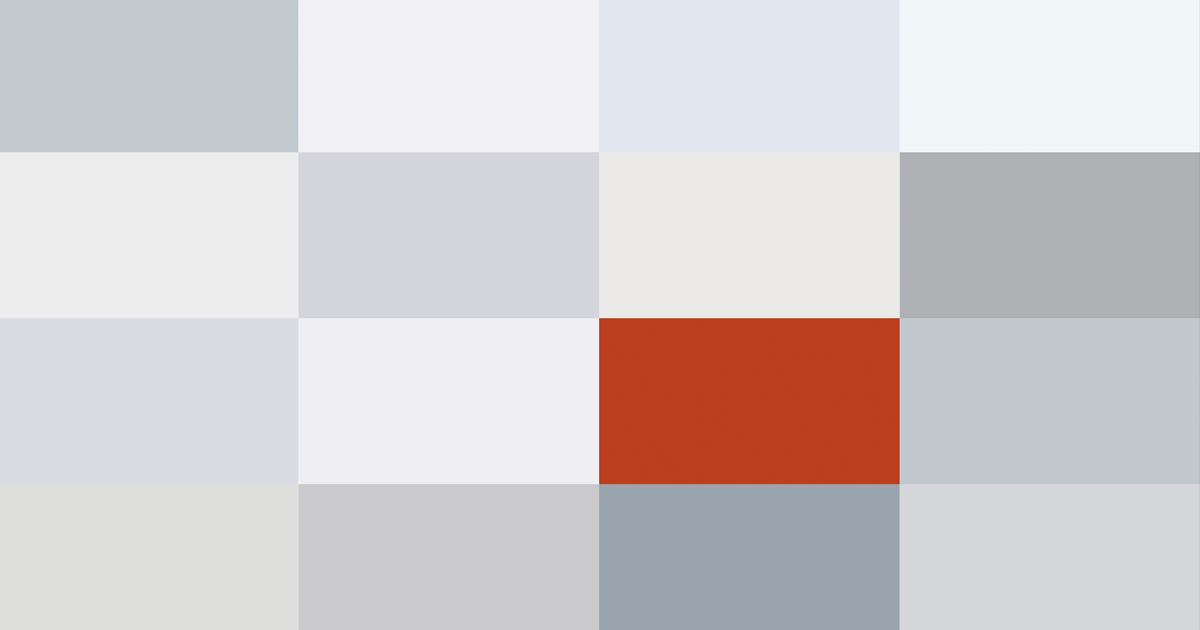
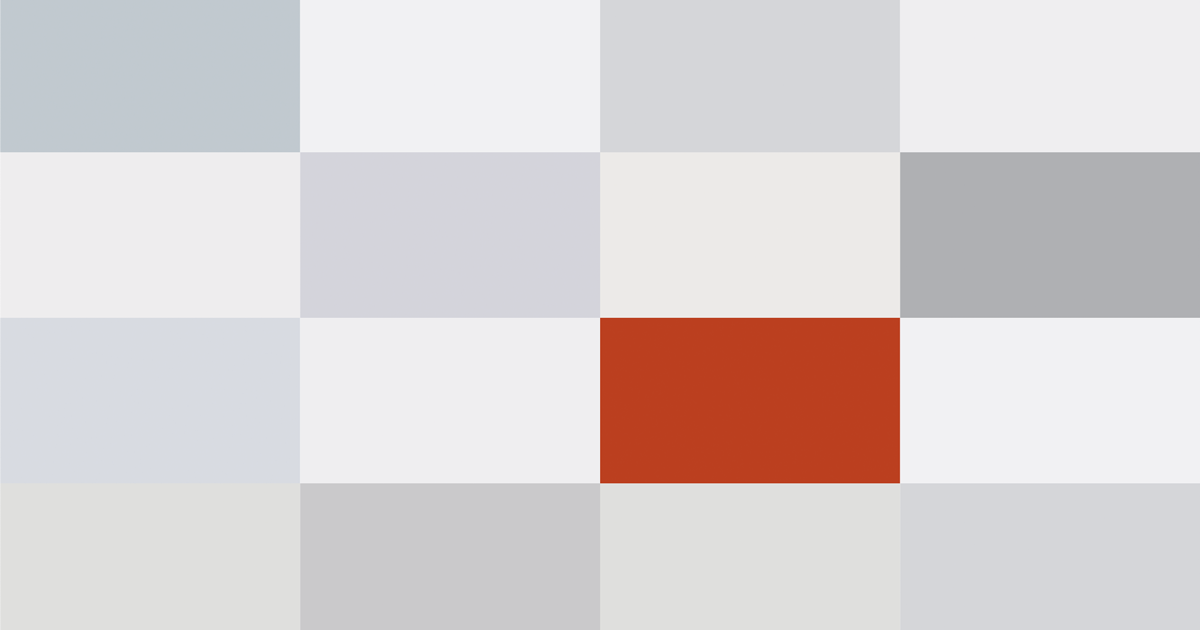
Change Colors

Changed region(s): [[0.4933, 0.4825, 1.0, 1.0]]

diff --git a/docs/assets/css/styles.css b/docs/assets/css/styles.css
@@ -2,4 +2,4 @@
  * ress.css • v1.2.2
  * MIT License
  * github.com/filipelinhares/ress
- */html{box-sizing:border-box;overflow-y:scroll;-webkit-text-size-adjust:100%}*,:before,:after{background-repeat:no-repeat;box-sizing:inherit}:before,:after{text-decoration:inherit;vertical-align:inherit}*{padding:0;margin:0}audio:not([controls]){display:none;height:0}hr{overflow:visible}article,aside,details,figcaption,figure,footer,header,main,menu,nav,section,summary{display:block}summary{display:list-item}small{font-size:80%}[hidden],template{display:none}abbr[title]{border-bottom:1px dotted;text-decoration:none}a{background-color:transparent;-webkit-text-decoration-skip:objects}a:active,a:hover{outline-width:0}code,kbd,pre,samp{font-family:monospace,monospace}b,strong{font-weight:bolder}dfn{font-style:italic}mark{background-color:#ff0;color:#000}sub,sup{font-size:75%;line-height:0;position:relative;vertical-align:baseline}sub{bottom:-.25em}sup{top:-.5em}input{border-radius:0}button,[type=button],[type=reset],[type=submit],[role=button]{cursor:pointer}[disabled]{cursor:default}[type=number]{width:auto}[type=search]{-webkit-appearance:textfield}[type=search]::-webkit-search-cancel-button,[type=search]::-webkit-search-decoration{-webkit-appearance:none}textarea{overflow:auto;resize:vertical}button,input,optgroup,select,textarea{font:inherit}optgroup{font-weight:700}button{overflow:visible}button::-moz-focus-inner,[type=button]::-moz-focus-inner,[type=reset]::-moz-focus-inner,[type=submit]::-moz-focus-inner{border-style:0;padding:0}button:-moz-focusring,[type=button]::-moz-focus-inner,[type=reset]::-moz-focus-inner,[type=submit]::-moz-focus-inner{outline:1px dotted ButtonText}button,html [type=button],[type=reset],[type=submit]{-webkit-appearance:button}button,select{text-transform:none}button,input,select,textarea{background-color:transparent;border-style:none;color:inherit}select{-moz-appearance:none;-webkit-appearance:none}select::-ms-expand{display:none}select::-ms-value{color:currentColor}legend{border:0;color:inherit;display:table;max-width:100%;white-space:normal}::-webkit-file-upload-button{-webkit-appearance:button;font:inherit}[type=search]{-webkit-appearance:textfield;outline-offset:-2px}img{border-style:none}progress{vertical-align:baseline}svg:not(:root){overflow:hidden}audio,canvas,progress,video{display:inline-block}@media screen{[hidden~=screen]{display:inherit}[hidden~=screen]:not(:active):not(:focus):not(:target){position:absolute!important;clip:rect(0 0 0 0)!important}}[aria-busy=true]{cursor:progress}[aria-controls]{cursor:pointer}[aria-disabled]{cursor:default}::-moz-selection{background-color:#b3d4fc;color:#000;text-shadow:none}::selection{background-color:#b3d4fc;color:#000;text-shadow:none}ul{list-style-type:none}a{text-decoration:none}html{font-size:62.5%;-webkit-font-smoothing:antialiased;-moz-osx-font-smoothing:grayscale}body{-webkit-text-size-adjust:100%;font-family:-apple-system,BlinkMacSystemFont,Helvetica Neue,Yu Gothic,YuGothic,Verdana,Meiryo,"M+ 1p",sans-serif;font-size:14px;font-size:1.4rem;color:#000}html,body{height:100%}.people{width:100%;height:100%;position:relative;overflow:hidden}.people__dance{position:absolute;width:50%;height:100%;-webkit-animation-duration:20s;animation-duration:20s;-webkit-animation-timing-function:ease-in-out;animation-timing-function:ease-in-out;-webkit-animation-iteration-count:infinite;animation-iteration-count:infinite;-webkit-animation-delay:2s;animation-delay:2s;-webkit-clip-path:polygon(25% 25%,75% 25%,75% 50%,25% 50%);clip-path:polygon(25% 25%,75% 25%,75% 50%,25% 50%)}.people__dance.-dance01{top:-25%;left:-12.5%;-webkit-animation-name:dance01;animation-name:dance01;background:#c1c9d0}.people__dance.-dance02{top:-25%;left:12.5%;-webkit-animation-name:dance02;animation-name:dance02;background:#f1f1f3}.people__dance.-dance03{top:-25%;left:37.5%;-webkit-animation-name:dance03;animation-name:dance03;background:#e1e7ee}.people__dance.-dance04{top:-25%;left:62.5%;-webkit-animation-name:dance04;animation-name:dance04;background:#f1f6f9}.people__dance.-dance05{top:0;left:-12.5%;-webkit-animation-name:dance05;animation-name:dance05;background:#eeedee}.people__dance.-dance06{top:0;left:12.5%;-webkit-animation-name:dance06;animation-name:dance06;background:#d4d4db}.people__dance.-dance07{top:0;left:37.5%;-webkit-animation-name:dance07;animation-name:dance07;background:#eceae8}.people__dance.-dance08{top:0;left:62.5%;-webkit-animation-name:dance08;animation-name:dance08;background:#afb0b3}.people__dance.-dance09{top:25%;left:-12.5%;-webkit-animation-name:dance09;animation-name:dance09;background:#d8dbe1}.people__dance.-dance10{top:25%;left:12.5%;-webkit-animation-name:dance10;animation-name:dance10;background:#efeef0}.people__dance.-you{top:25%;left:37.5%;-webkit-animation-name:you;animation-name:you;background:#bb3f20}.people__dance.-dance12{top:25%;left:62.5%;-webkit-animation-name:dance12;animation-name:dance12;background:#c0c8cf}.people__dance.-dance13{top:50%;left:-12.5%;-webkit-animation-name:dance13;animation-name:dance13;background:#dfdfdd}.people__dance.-dance14{top:50%;left:12.5%;-webkit-animation-name:dance14;animation-name:dance14;background:#cac9cb}.people__dance.-dance15{top:50%;left:37.5%;-webkit-animation-name:dance15;animation-name:dance15;background:#9aa4af}.people__dance.-dance16{top:50%;left:62.5%;-webkit-animation-name:dance16;animation-name:dance16;background:#d5d6d9}@-webkit-keyframes dance01{25%{-webkit-clip-path:polygon(25% 25%,73% 25%,77% 52%,25% 48%);clip-path:polygon(25% 25%,73% 25%,77% 52%,25% 48%)}50%{-webkit-clip-path:polygon(25% 25%,77% 25%,73% 48%,25% 52%);clip-path:polygon(25% 25%,77% 25%,73% 48%,25% 52%)}75%{-webkit-clip-path:polygon(25% 25%,73% 25%,73% 48%,25% 50%);clip-path:polygon(25% 25%,73% 25%,73% 48%,25% 50%)}}@keyframes dance01{25%{-webkit-clip-path:polygon(25% 25%,73% 25%,77% 52%,25% 48%);clip-path:polygon(25% 25%,73% 25%,77% 52%,25% 48%)}50%{-webkit-clip-path:polygon(25% 25%,77% 25%,73% 48%,25% 52%);clip-path:polygon(25% 25%,77% 25%,73% 48%,25% 52%)}75%{-webkit-clip-path:polygon(25% 25%,73% 25%,73% 48%,25% 50%);clip-path:polygon(25% 25%,73% 25%,73% 48%,25% 50%)}}@-webkit-keyframes dance02{25%{-webkit-clip-path:polygon(23% 25%,77% 25%,77% 48%,27% 52%);clip-path:polygon(23% 25%,77% 25%,77% 48%,27% 52%)}50%{-webkit-clip-path:polygon(27% 25%,73% 25%,73% 52%,23% 48%);clip-path:polygon(27% 25%,73% 25%,73% 52%,23% 48%)}75%{-webkit-clip-path:polygon(23% 25%,77% 25%,77% 48%,23% 48%);clip-path:polygon(23% 25%,77% 25%,77% 48%,23% 48%)}}@keyframes dance02{25%{-webkit-clip-path:polygon(23% 25%,77% 25%,77% 48%,27% 52%);clip-path:polygon(23% 25%,77% 25%,77% 48%,27% 52%)}50%{-webkit-clip-path:polygon(27% 25%,73% 25%,73% 52%,23% 48%);clip-path:polygon(27% 25%,73% 25%,73% 52%,23% 48%)}75%{-webkit-clip-path:polygon(23% 25%,77% 25%,77% 48%,23% 48%);clip-path:polygon(23% 25%,77% 25%,77% 48%,23% 48%)}}@-webkit-keyframes dance03{25%{-webkit-clip-path:polygon(27% 25%,77% 25%,73% 52%,27% 48%);clip-path:polygon(27% 25%,77% 25%,73% 52%,27% 48%)}50%{-webkit-clip-path:polygon(23% 25%,73% 25%,77% 48%,23% 52%);clip-path:polygon(23% 25%,73% 25%,77% 48%,23% 52%)}75%{-webkit-clip-path:polygon(23% 25%,77% 25%,77% 48%,27% 48%);clip-path:polygon(23% 25%,77% 25%,77% 48%,27% 48%)}}@keyframes dance03{25%{-webkit-clip-path:polygon(27% 25%,77% 25%,73% 52%,27% 48%);clip-path:polygon(27% 25%,77% 25%,73% 52%,27% 48%)}50%{-webkit-clip-path:polygon(23% 25%,73% 25%,77% 48%,23% 52%);clip-path:polygon(23% 25%,73% 25%,77% 48%,23% 52%)}75%{-webkit-clip-path:polygon(23% 25%,77% 25%,77% 48%,27% 48%);clip-path:polygon(23% 25%,77% 25%,77% 48%,27% 48%)}}@-webkit-keyframes dance04{25%{-webkit-clip-path:polygon(27% 25%,75% 25%,75% 48%,23% 52%);clip-path:polygon(27% 25%,75% 25%,75% 48%,23% 52%)}50%{-webkit-clip-path:polygon(23% 25%,75% 25%,75% 52%,27% 48%);clip-path:polygon(23% 25%,75% 25%,75% 52%,27% 48%)}75%{-webkit-clip-path:polygon(27% 25%,75% 25%,75% 50%,27% 50%);clip-path:polygon(27% 25%,75% 25%,75% 50%,27% 50%)}}@keyframes dance04{25%{-webkit-clip-path:polygon(27% 25%,75% 25%,75% 48%,23% 52%);clip-path:polygon(27% 25%,75% 25%,75% 48%,23% 52%)}50%{-webkit-clip-path:polygon(23% 25%,75% 25%,75% 52%,27% 48%);clip-path:polygon(23% 25%,75% 25%,75% 52%,27% 48%)}75%{-webkit-clip-path:polygon(27% 25%,75% 25%,75% 50%,27% 50%);clip-path:polygon(27% 25%,75% 25%,75% 50%,27% 50%)}}@-webkit-keyframes dance05{25%{-webkit-clip-path:polygon(25% 23%,77% 27%,73% 48%,25% 50%);clip-path:polygon(25% 23%,77% 27%,73% 48%,25% 50%)}50%{-webkit-clip-path:polygon(25% 27%,73% 23%,77% 52%,25% 50%);clip-path:polygon(25% 27%,73% 23%,77% 52%,25% 50%)}75%{-webkit-clip-path:polygon(25% 25%,73% 23%,73% 50%,25% 50%);clip-path:polygon(25% 25%,73% 23%,73% 50%,25% 50%)}}@keyframes dance05{25%{-webkit-clip-path:polygon(25% 23%,77% 27%,73% 48%,25% 50%);clip-path:polygon(25% 23%,77% 27%,73% 48%,25% 50%)}50%{-webkit-clip-path:polygon(25% 27%,73% 23%,77% 52%,25% 50%);clip-path:polygon(25% 27%,73% 23%,77% 52%,25% 50%)}75%{-webkit-clip-path:polygon(25% 25%,73% 23%,73% 50%,25% 50%);clip-path:polygon(25% 25%,73% 23%,73% 50%,25% 50%)}}@-webkit-keyframes dance06{25%{-webkit-clip-path:polygon(27% 27%,77% 23%,73% 50%,23% 48%);clip-path:polygon(27% 27%,77% 23%,73% 50%,23% 48%)}50%{-webkit-clip-path:polygon(23% 23%,73% 27%,77% 48%,27% 52%);clip-path:polygon(23% 23%,73% 27%,77% 48%,27% 52%)}75%{-webkit-clip-path:polygon(23% 23%,77% 23%,77% 50%,23% 50%);clip-path:polygon(23% 23%,77% 23%,77% 50%,23% 50%)}}@keyframes dance06{25%{-webkit-clip-path:polygon(27% 27%,77% 23%,73% 50%,23% 48%);clip-path:polygon(27% 27%,77% 23%,73% 50%,23% 48%)}50%{-webkit-clip-path:polygon(23% 23%,73% 27%,77% 48%,27% 52%);clip-path:polygon(23% 23%,73% 27%,77% 48%,27% 52%)}75%{-webkit-clip-path:polygon(23% 23%,77% 23%,77% 50%,23% 50%);clip-path:polygon(23% 23%,77% 23%,77% 50%,23% 50%)}}@-webkit-keyframes dance07{25%{-webkit-clip-path:polygon(27% 23%,73% 27%,77% 48%,23% 50%);clip-path:polygon(27% 23%,73% 27%,77% 48%,23% 50%)}50%{-webkit-clip-path:polygon(23% 27%,77% 23%,73% 50%,27% 48%);clip-path:polygon(23% 27%,77% 23%,73% 50%,27% 48%)}75%{-webkit-clip-path:polygon(27% 23%,77% 23%,75% 50%,27% 50%);clip-path:polygon(27% 23%,77% 23%,75% 50%,27% 50%)}}@keyframes dance07{25%{-webkit-clip-path:polygon(27% 23%,73% 27%,77% 48%,23% 50%);clip-path:polygon(27% 23%,73% 27%,77% 48%,23% 50%)}50%{-webkit-clip-path:polygon(23% 27%,77% 23%,73% 50%,27% 48%);clip-path:polygon(23% 27%,77% 23%,73% 50%,27% 48%)}75%{-webkit-clip-path:polygon(27% 23%,77% 23%,75% 50%,27% 50%);clip-path:polygon(27% 23%,77% 23%,75% 50%,27% 50%)}}@-webkit-keyframes dance08{25%{-webkit-clip-path:polygon(23% 27%,75% 23%,75% 50%,27% 48%);clip-path:polygon(23% 27%,75% 23%,75% 50%,27% 48%)}50%{-webkit-clip-path:polygon(27% 23%,75% 27%,75% 50%,23% 50%);clip-path:polygon(27% 23%,75% 27%,75% 50%,23% 50%)}75%{-webkit-clip-path:polygon(27% 23%,75% 25%,75% 50%,25% 50%);clip-path:polygon(27% 23%,75% 25%,75% 50%,25% 50%)}}@keyframes dance08{25%{-webkit-clip-path:polygon(23% 27%,75% 23%,75% 50%,27% 48%);clip-path:polygon(23% 27%,75% 23%,75% 50%,27% 48%)}50%{-webkit-clip-path:polygon(27% 23%,75% 27%,75% 50%,23% 50%);clip-path:polygon(27% 23%,75% 27%,75% 50%,23% 50%)}75%{-webkit-clip-path:polygon(27% 23%,75% 25%,75% 50%,25% 50%);clip-path:polygon(27% 23%,75% 25%,75% 50%,25% 50%)}}@-webkit-keyframes dance09{25%{-webkit-clip-path:polygon(25% 25%,73% 23%,77% 52%,25% 48%);clip-path:polygon(25% 25%,73% 23%,77% 52%,25% 48%)}50%{-webkit-clip-path:polygon(25% 25%,77% 25%,73% 48%,25% 52%);clip-path:polygon(25% 25%,77% 25%,73% 48%,25% 52%)}75%{-webkit-clip-path:polygon(25% 25%,73% 25%,73% 48%,25% 50%);clip-path:polygon(25% 25%,73% 25%,73% 48%,25% 50%)}}@keyframes dance09{25%{-webkit-clip-path:polygon(25% 25%,73% 23%,77% 52%,25% 48%);clip-path:polygon(25% 25%,73% 23%,77% 52%,25% 48%)}50%{-webkit-clip-path:polygon(25% 25%,77% 25%,73% 48%,25% 52%);clip-path:polygon(25% 25%,77% 25%,73% 48%,25% 52%)}75%{-webkit-clip-path:polygon(25% 25%,73% 25%,73% 48%,25% 50%);clip-path:polygon(25% 25%,73% 25%,73% 48%,25% 50%)}}@-webkit-keyframes dance10{25%{-webkit-clip-path:polygon(23% 23%,73% 25%,77% 48%,27% 52%);clip-path:polygon(23% 23%,73% 25%,77% 48%,27% 52%)}50%{-webkit-clip-path:polygon(27% 25%,77% 23%,73% 52%,23% 48%);clip-path:polygon(27% 25%,77% 23%,73% 52%,23% 48%)}75%{-webkit-clip-path:polygon(23% 25%,77% 25%,77% 48%,23% 48%);clip-path:polygon(23% 25%,77% 25%,77% 48%,23% 48%)}}@keyframes dance10{25%{-webkit-clip-path:polygon(23% 23%,73% 25%,77% 48%,27% 52%);clip-path:polygon(23% 23%,73% 25%,77% 48%,27% 52%)}50%{-webkit-clip-path:polygon(27% 25%,77% 23%,73% 52%,23% 48%);clip-path:polygon(27% 25%,77% 23%,73% 52%,23% 48%)}75%{-webkit-clip-path:polygon(23% 25%,77% 25%,77% 48%,23% 48%);clip-path:polygon(23% 25%,77% 25%,77% 48%,23% 48%)}}@-webkit-keyframes you{25%{-webkit-clip-path:polygon(23% 25%,77% 23%,73% 52%,27% 48%);clip-path:polygon(23% 25%,77% 23%,73% 52%,27% 48%)}50%{-webkit-clip-path:polygon(27% 23%,73% 25%,77% 48%,23% 52%);clip-path:polygon(27% 23%,73% 25%,77% 48%,23% 52%)}75%{-webkit-clip-path:polygon(27% 25%,75% 25%,77% 50%,27% 48%);clip-path:polygon(27% 25%,75% 25%,77% 50%,27% 48%)}}@keyframes you{25%{-webkit-clip-path:polygon(23% 25%,77% 23%,73% 52%,27% 48%);clip-path:polygon(23% 25%,77% 23%,73% 52%,27% 48%)}50%{-webkit-clip-path:polygon(27% 23%,73% 25%,77% 48%,23% 52%);clip-path:polygon(27% 23%,73% 25%,77% 48%,23% 52%)}75%{-webkit-clip-path:polygon(27% 25%,75% 25%,77% 50%,27% 48%);clip-path:polygon(27% 25%,75% 25%,77% 50%,27% 48%)}}@-webkit-keyframes dance12{25%{-webkit-clip-path:polygon(27% 23%,75% 25%,75% 48%,23% 52%);clip-path:polygon(27% 23%,75% 25%,75% 48%,23% 52%)}50%{-webkit-clip-path:polygon(23% 25%,75% 25%,75% 52%,27% 48%);clip-path:polygon(23% 25%,75% 25%,75% 52%,27% 48%)}75%{-webkit-clip-path:polygon(25% 25%,75% 25%,75% 50%,27% 50%);clip-path:polygon(25% 25%,75% 25%,75% 50%,27% 50%)}}@keyframes dance12{25%{-webkit-clip-path:polygon(27% 23%,75% 25%,75% 48%,23% 52%);clip-path:polygon(27% 23%,75% 25%,75% 48%,23% 52%)}50%{-webkit-clip-path:polygon(23% 25%,75% 25%,75% 52%,27% 48%);clip-path:polygon(23% 25%,75% 25%,75% 52%,27% 48%)}75%{-webkit-clip-path:polygon(25% 25%,75% 25%,75% 50%,27% 50%);clip-path:polygon(25% 25%,75% 25%,75% 50%,27% 50%)}}@-webkit-keyframes dance13{25%{-webkit-clip-path:polygon(25% 23%,77% 27%,73% 50%,25% 50%);clip-path:polygon(25% 23%,77% 27%,73% 50%,25% 50%)}50%{-webkit-clip-path:polygon(25% 27%,73% 23%,77% 52%,25% 50%);clip-path:polygon(25% 27%,73% 23%,77% 52%,25% 50%)}75%{-webkit-clip-path:polygon(25% 25%,73% 23%,73% 50%,25% 50%);clip-path:polygon(25% 25%,73% 23%,73% 50%,25% 50%)}}@keyframes dance13{25%{-webkit-clip-path:polygon(25% 23%,77% 27%,73% 50%,25% 50%);clip-path:polygon(25% 23%,77% 27%,73% 50%,25% 50%)}50%{-webkit-clip-path:polygon(25% 27%,73% 23%,77% 52%,25% 50%);clip-path:polygon(25% 27%,73% 23%,77% 52%,25% 50%)}75%{-webkit-clip-path:polygon(25% 25%,73% 23%,73% 50%,25% 50%);clip-path:polygon(25% 25%,73% 23%,73% 50%,25% 50%)}}@-webkit-keyframes dance14{25%{-webkit-clip-path:polygon(27% 27%,77% 23%,73% 50%,23% 50%);clip-path:polygon(27% 27%,77% 23%,73% 50%,23% 50%)}50%{-webkit-clip-path:polygon(23% 23%,73% 27%,77% 50%,27% 52%);clip-path:polygon(23% 23%,73% 27%,77% 50%,27% 52%)}75%{-webkit-clip-path:polygon(23% 23%,77% 23%,77% 50%,23% 50%);clip-path:polygon(23% 23%,77% 23%,77% 50%,23% 50%)}}@keyframes dance14{25%{-webkit-clip-path:polygon(27% 27%,77% 23%,73% 50%,23% 50%);clip-path:polygon(27% 27%,77% 23%,73% 50%,23% 50%)}50%{-webkit-clip-path:polygon(23% 23%,73% 27%,77% 50%,27% 52%);clip-path:polygon(23% 23%,73% 27%,77% 50%,27% 52%)}75%{-webkit-clip-path:polygon(23% 23%,77% 23%,77% 50%,23% 50%);clip-path:polygon(23% 23%,77% 23%,77% 50%,23% 50%)}}@-webkit-keyframes dance15{25%{-webkit-clip-path:polygon(27% 23%,73% 27%,77% 50%,23% 50%);clip-path:polygon(27% 23%,73% 27%,77% 50%,23% 50%)}50%{-webkit-clip-path:polygon(23% 27%,77% 23%,73% 50%,27% 50%);clip-path:polygon(23% 27%,77% 23%,73% 50%,27% 50%)}75%{-webkit-clip-path:polygon(27% 23%,77% 23%,75% 50%,27% 50%);clip-path:polygon(27% 23%,77% 23%,75% 50%,27% 50%)}}@keyframes dance15{25%{-webkit-clip-path:polygon(27% 23%,73% 27%,77% 50%,23% 50%);clip-path:polygon(27% 23%,73% 27%,77% 50%,23% 50%)}50%{-webkit-clip-path:polygon(23% 27%,77% 23%,73% 50%,27% 50%);clip-path:polygon(23% 27%,77% 23%,73% 50%,27% 50%)}75%{-webkit-clip-path:polygon(27% 23%,77% 23%,75% 50%,27% 50%);clip-path:polygon(27% 23%,77% 23%,75% 50%,27% 50%)}}@-webkit-keyframes dance16{25%{-webkit-clip-path:polygon(23% 27%,75% 23%,75% 50%,27% 50%);clip-path:polygon(23% 27%,75% 23%,75% 50%,27% 50%)}50%{-webkit-clip-path:polygon(27% 23%,75% 27%,75% 50%,23% 50%);clip-path:polygon(27% 23%,75% 27%,75% 50%,23% 50%)}75%{-webkit-clip-path:polygon(27% 23%,75% 25%,75% 50%,25% 50%);clip-path:polygon(27% 23%,75% 25%,75% 50%,25% 50%)}}@keyframes dance16{25%{-webkit-clip-path:polygon(23% 27%,75% 23%,75% 50%,27% 50%);clip-path:polygon(23% 27%,75% 23%,75% 50%,27% 50%)}50%{-webkit-clip-path:polygon(27% 23%,75% 27%,75% 50%,23% 50%);clip-path:polygon(27% 23%,75% 27%,75% 50%,23% 50%)}75%{-webkit-clip-path:polygon(27% 23%,75% 25%,75% 50%,25% 50%);clip-path:polygon(27% 23%,75% 25%,75% 50%,25% 50%)}}
+ */html{box-sizing:border-box;overflow-y:scroll;-webkit-text-size-adjust:100%}*,:before,:after{background-repeat:no-repeat;box-sizing:inherit}:before,:after{text-decoration:inherit;vertical-align:inherit}*{padding:0;margin:0}audio:not([controls]){display:none;height:0}hr{overflow:visible}article,aside,details,figcaption,figure,footer,header,main,menu,nav,section,summary{display:block}summary{display:list-item}small{font-size:80%}[hidden],template{display:none}abbr[title]{border-bottom:1px dotted;text-decoration:none}a{background-color:transparent;-webkit-text-decoration-skip:objects}a:active,a:hover{outline-width:0}code,kbd,pre,samp{font-family:monospace,monospace}b,strong{font-weight:bolder}dfn{font-style:italic}mark{background-color:#ff0;color:#000}sub,sup{font-size:75%;line-height:0;position:relative;vertical-align:baseline}sub{bottom:-.25em}sup{top:-.5em}input{border-radius:0}button,[type=button],[type=reset],[type=submit],[role=button]{cursor:pointer}[disabled]{cursor:default}[type=number]{width:auto}[type=search]{-webkit-appearance:textfield}[type=search]::-webkit-search-cancel-button,[type=search]::-webkit-search-decoration{-webkit-appearance:none}textarea{overflow:auto;resize:vertical}button,input,optgroup,select,textarea{font:inherit}optgroup{font-weight:700}button{overflow:visible}button::-moz-focus-inner,[type=button]::-moz-focus-inner,[type=reset]::-moz-focus-inner,[type=submit]::-moz-focus-inner{border-style:0;padding:0}button:-moz-focusring,[type=button]::-moz-focus-inner,[type=reset]::-moz-focus-inner,[type=submit]::-moz-focus-inner{outline:1px dotted ButtonText}button,html [type=button],[type=reset],[type=submit]{-webkit-appearance:button}button,select{text-transform:none}button,input,select,textarea{background-color:transparent;border-style:none;color:inherit}select{-moz-appearance:none;-webkit-appearance:none}select::-ms-expand{display:none}select::-ms-value{color:currentColor}legend{border:0;color:inherit;display:table;max-width:100%;white-space:normal}::-webkit-file-upload-button{-webkit-appearance:button;font:inherit}[type=search]{-webkit-appearance:textfield;outline-offset:-2px}img{border-style:none}progress{vertical-align:baseline}svg:not(:root){overflow:hidden}audio,canvas,progress,video{display:inline-block}@media screen{[hidden~=screen]{display:inherit}[hidden~=screen]:not(:active):not(:focus):not(:target){position:absolute!important;clip:rect(0 0 0 0)!important}}[aria-busy=true]{cursor:progress}[aria-controls]{cursor:pointer}[aria-disabled]{cursor:default}::-moz-selection{background-color:#b3d4fc;color:#000;text-shadow:none}::selection{background-color:#b3d4fc;color:#000;text-shadow:none}ul{list-style-type:none}a{text-decoration:none}html{font-size:62.5%;-webkit-font-smoothing:antialiased;-moz-osx-font-smoothing:grayscale}body{-webkit-text-size-adjust:100%;font-family:-apple-system,BlinkMacSystemFont,Helvetica Neue,Yu Gothic,YuGothic,Verdana,Meiryo,"M+ 1p",sans-serif;font-size:14px;font-size:1.4rem;color:#000}html,body{height:100%}.people{width:100%;height:100%;position:relative;overflow:hidden}.people__dance{position:absolute;width:50%;height:100%;-webkit-animation-duration:20s;animation-duration:20s;-webkit-animation-timing-function:ease-in-out;animation-timing-function:ease-in-out;-webkit-animation-iteration-count:infinite;animation-iteration-count:infinite;-webkit-animation-delay:2s;animation-delay:2s;-webkit-clip-path:polygon(25% 25%,75% 25%,75% 50%,25% 50%);clip-path:polygon(25% 25%,75% 25%,75% 50%,25% 50%)}.people__dance.-dance01{top:-25%;left:-12.5%;-webkit-animation-name:dance01;animation-name:dance01;background:#c1c9d0}.people__dance.-dance02{top:-25%;left:12.5%;-webkit-animation-name:dance02;animation-name:dance02;background:#f1f1f3}.people__dance.-dance03{top:-25%;left:37.5%;-webkit-animation-name:dance03;animation-name:dance03;background:#d5d6d9}.people__dance.-dance04{top:-25%;left:62.5%;-webkit-animation-name:dance04;animation-name:dance04;background:#efeef0}.people__dance.-dance05{top:0;left:-12.5%;-webkit-animation-name:dance05;animation-name:dance05;background:#eeedee}.people__dance.-dance06{top:0;left:12.5%;-webkit-animation-name:dance06;animation-name:dance06;background:#d4d4db}.people__dance.-dance07{top:0;left:37.5%;-webkit-animation-name:dance07;animation-name:dance07;background:#eceae8}.people__dance.-dance08{top:0;left:62.5%;-webkit-animation-name:dance08;animation-name:dance08;background:#afb0b3}.people__dance.-dance09{top:25%;left:-12.5%;-webkit-animation-name:dance09;animation-name:dance09;background:#d8dbe1}.people__dance.-dance10{top:25%;left:12.5%;-webkit-animation-name:dance10;animation-name:dance10;background:#efeef0}.people__dance.-you{top:25%;left:37.5%;-webkit-animation-name:you;animation-name:you;background:#bb3f20}.people__dance.-dance12{top:25%;left:62.5%;-webkit-animation-name:dance12;animation-name:dance12;background:#f1f1f3}.people__dance.-dance13{top:50%;left:-12.5%;-webkit-animation-name:dance13;animation-name:dance13;background:#dfdfdd}.people__dance.-dance14{top:50%;left:12.5%;-webkit-animation-name:dance14;animation-name:dance14;background:#cac9cb}.people__dance.-dance15{top:50%;left:37.5%;-webkit-animation-name:dance15;animation-name:dance15;background:#dfdfdd}.people__dance.-dance16{top:50%;left:62.5%;-webkit-animation-name:dance16;animation-name:dance16;background:#d5d6d9}@-webkit-keyframes dance01{25%{-webkit-clip-path:polygon(25% 25%,73% 25%,77% 52%,25% 48%);clip-path:polygon(25% 25%,73% 25%,77% 52%,25% 48%)}50%{-webkit-clip-path:polygon(25% 25%,77% 25%,73% 48%,25% 52%);clip-path:polygon(25% 25%,77% 25%,73% 48%,25% 52%)}75%{-webkit-clip-path:polygon(25% 25%,73% 25%,73% 48%,25% 50%);clip-path:polygon(25% 25%,73% 25%,73% 48%,25% 50%)}}@keyframes dance01{25%{-webkit-clip-path:polygon(25% 25%,73% 25%,77% 52%,25% 48%);clip-path:polygon(25% 25%,73% 25%,77% 52%,25% 48%)}50%{-webkit-clip-path:polygon(25% 25%,77% 25%,73% 48%,25% 52%);clip-path:polygon(25% 25%,77% 25%,73% 48%,25% 52%)}75%{-webkit-clip-path:polygon(25% 25%,73% 25%,73% 48%,25% 50%);clip-path:polygon(25% 25%,73% 25%,73% 48%,25% 50%)}}@-webkit-keyframes dance02{25%{-webkit-clip-path:polygon(23% 25%,77% 25%,77% 48%,27% 52%);clip-path:polygon(23% 25%,77% 25%,77% 48%,27% 52%)}50%{-webkit-clip-path:polygon(27% 25%,73% 25%,73% 52%,23% 48%);clip-path:polygon(27% 25%,73% 25%,73% 52%,23% 48%)}75%{-webkit-clip-path:polygon(23% 25%,77% 25%,77% 48%,23% 48%);clip-path:polygon(23% 25%,77% 25%,77% 48%,23% 48%)}}@keyframes dance02{25%{-webkit-clip-path:polygon(23% 25%,77% 25%,77% 48%,27% 52%);clip-path:polygon(23% 25%,77% 25%,77% 48%,27% 52%)}50%{-webkit-clip-path:polygon(27% 25%,73% 25%,73% 52%,23% 48%);clip-path:polygon(27% 25%,73% 25%,73% 52%,23% 48%)}75%{-webkit-clip-path:polygon(23% 25%,77% 25%,77% 48%,23% 48%);clip-path:polygon(23% 25%,77% 25%,77% 48%,23% 48%)}}@-webkit-keyframes dance03{25%{-webkit-clip-path:polygon(27% 25%,77% 25%,73% 52%,27% 48%);clip-path:polygon(27% 25%,77% 25%,73% 52%,27% 48%)}50%{-webkit-clip-path:polygon(23% 25%,73% 25%,77% 48%,23% 52%);clip-path:polygon(23% 25%,73% 25%,77% 48%,23% 52%)}75%{-webkit-clip-path:polygon(23% 25%,77% 25%,77% 48%,27% 48%);clip-path:polygon(23% 25%,77% 25%,77% 48%,27% 48%)}}@keyframes dance03{25%{-webkit-clip-path:polygon(27% 25%,77% 25%,73% 52%,27% 48%);clip-path:polygon(27% 25%,77% 25%,73% 52%,27% 48%)}50%{-webkit-clip-path:polygon(23% 25%,73% 25%,77% 48%,23% 52%);clip-path:polygon(23% 25%,73% 25%,77% 48%,23% 52%)}75%{-webkit-clip-path:polygon(23% 25%,77% 25%,77% 48%,27% 48%);clip-path:polygon(23% 25%,77% 25%,77% 48%,27% 48%)}}@-webkit-keyframes dance04{25%{-webkit-clip-path:polygon(27% 25%,75% 25%,75% 48%,23% 52%);clip-path:polygon(27% 25%,75% 25%,75% 48%,23% 52%)}50%{-webkit-clip-path:polygon(23% 25%,75% 25%,75% 52%,27% 48%);clip-path:polygon(23% 25%,75% 25%,75% 52%,27% 48%)}75%{-webkit-clip-path:polygon(27% 25%,75% 25%,75% 50%,27% 50%);clip-path:polygon(27% 25%,75% 25%,75% 50%,27% 50%)}}@keyframes dance04{25%{-webkit-clip-path:polygon(27% 25%,75% 25%,75% 48%,23% 52%);clip-path:polygon(27% 25%,75% 25%,75% 48%,23% 52%)}50%{-webkit-clip-path:polygon(23% 25%,75% 25%,75% 52%,27% 48%);clip-path:polygon(23% 25%,75% 25%,75% 52%,27% 48%)}75%{-webkit-clip-path:polygon(27% 25%,75% 25%,75% 50%,27% 50%);clip-path:polygon(27% 25%,75% 25%,75% 50%,27% 50%)}}@-webkit-keyframes dance05{25%{-webkit-clip-path:polygon(25% 23%,77% 27%,73% 48%,25% 50%);clip-path:polygon(25% 23%,77% 27%,73% 48%,25% 50%)}50%{-webkit-clip-path:polygon(25% 27%,73% 23%,77% 52%,25% 50%);clip-path:polygon(25% 27%,73% 23%,77% 52%,25% 50%)}75%{-webkit-clip-path:polygon(25% 25%,73% 23%,73% 50%,25% 50%);clip-path:polygon(25% 25%,73% 23%,73% 50%,25% 50%)}}@keyframes dance05{25%{-webkit-clip-path:polygon(25% 23%,77% 27%,73% 48%,25% 50%);clip-path:polygon(25% 23%,77% 27%,73% 48%,25% 50%)}50%{-webkit-clip-path:polygon(25% 27%,73% 23%,77% 52%,25% 50%);clip-path:polygon(25% 27%,73% 23%,77% 52%,25% 50%)}75%{-webkit-clip-path:polygon(25% 25%,73% 23%,73% 50%,25% 50%);clip-path:polygon(25% 25%,73% 23%,73% 50%,25% 50%)}}@-webkit-keyframes dance06{25%{-webkit-clip-path:polygon(27% 27%,77% 23%,73% 50%,23% 48%);clip-path:polygon(27% 27%,77% 23%,73% 50%,23% 48%)}50%{-webkit-clip-path:polygon(23% 23%,73% 27%,77% 48%,27% 52%);clip-path:polygon(23% 23%,73% 27%,77% 48%,27% 52%)}75%{-webkit-clip-path:polygon(23% 23%,77% 23%,77% 50%,23% 50%);clip-path:polygon(23% 23%,77% 23%,77% 50%,23% 50%)}}@keyframes dance06{25%{-webkit-clip-path:polygon(27% 27%,77% 23%,73% 50%,23% 48%);clip-path:polygon(27% 27%,77% 23%,73% 50%,23% 48%)}50%{-webkit-clip-path:polygon(23% 23%,73% 27%,77% 48%,27% 52%);clip-path:polygon(23% 23%,73% 27%,77% 48%,27% 52%)}75%{-webkit-clip-path:polygon(23% 23%,77% 23%,77% 50%,23% 50%);clip-path:polygon(23% 23%,77% 23%,77% 50%,23% 50%)}}@-webkit-keyframes dance07{25%{-webkit-clip-path:polygon(27% 23%,73% 27%,77% 48%,23% 50%);clip-path:polygon(27% 23%,73% 27%,77% 48%,23% 50%)}50%{-webkit-clip-path:polygon(23% 27%,77% 23%,73% 50%,27% 48%);clip-path:polygon(23% 27%,77% 23%,73% 50%,27% 48%)}75%{-webkit-clip-path:polygon(27% 23%,77% 23%,75% 50%,27% 50%);clip-path:polygon(27% 23%,77% 23%,75% 50%,27% 50%)}}@keyframes dance07{25%{-webkit-clip-path:polygon(27% 23%,73% 27%,77% 48%,23% 50%);clip-path:polygon(27% 23%,73% 27%,77% 48%,23% 50%)}50%{-webkit-clip-path:polygon(23% 27%,77% 23%,73% 50%,27% 48%);clip-path:polygon(23% 27%,77% 23%,73% 50%,27% 48%)}75%{-webkit-clip-path:polygon(27% 23%,77% 23%,75% 50%,27% 50%);clip-path:polygon(27% 23%,77% 23%,75% 50%,27% 50%)}}@-webkit-keyframes dance08{25%{-webkit-clip-path:polygon(23% 27%,75% 23%,75% 50%,27% 48%);clip-path:polygon(23% 27%,75% 23%,75% 50%,27% 48%)}50%{-webkit-clip-path:polygon(27% 23%,75% 27%,75% 50%,23% 50%);clip-path:polygon(27% 23%,75% 27%,75% 50%,23% 50%)}75%{-webkit-clip-path:polygon(27% 23%,75% 25%,75% 50%,25% 50%);clip-path:polygon(27% 23%,75% 25%,75% 50%,25% 50%)}}@keyframes dance08{25%{-webkit-clip-path:polygon(23% 27%,75% 23%,75% 50%,27% 48%);clip-path:polygon(23% 27%,75% 23%,75% 50%,27% 48%)}50%{-webkit-clip-path:polygon(27% 23%,75% 27%,75% 50%,23% 50%);clip-path:polygon(27% 23%,75% 27%,75% 50%,23% 50%)}75%{-webkit-clip-path:polygon(27% 23%,75% 25%,75% 50%,25% 50%);clip-path:polygon(27% 23%,75% 25%,75% 50%,25% 50%)}}@-webkit-keyframes dance09{25%{-webkit-clip-path:polygon(25% 25%,73% 23%,77% 52%,25% 48%);clip-path:polygon(25% 25%,73% 23%,77% 52%,25% 48%)}50%{-webkit-clip-path:polygon(25% 25%,77% 25%,73% 48%,25% 52%);clip-path:polygon(25% 25%,77% 25%,73% 48%,25% 52%)}75%{-webkit-clip-path:polygon(25% 25%,73% 25%,73% 48%,25% 50%);clip-path:polygon(25% 25%,73% 25%,73% 48%,25% 50%)}}@keyframes dance09{25%{-webkit-clip-path:polygon(25% 25%,73% 23%,77% 52%,25% 48%);clip-path:polygon(25% 25%,73% 23%,77% 52%,25% 48%)}50%{-webkit-clip-path:polygon(25% 25%,77% 25%,73% 48%,25% 52%);clip-path:polygon(25% 25%,77% 25%,73% 48%,25% 52%)}75%{-webkit-clip-path:polygon(25% 25%,73% 25%,73% 48%,25% 50%);clip-path:polygon(25% 25%,73% 25%,73% 48%,25% 50%)}}@-webkit-keyframes dance10{25%{-webkit-clip-path:polygon(23% 23%,73% 25%,77% 48%,27% 52%);clip-path:polygon(23% 23%,73% 25%,77% 48%,27% 52%)}50%{-webkit-clip-path:polygon(27% 25%,77% 23%,73% 52%,23% 48%);clip-path:polygon(27% 25%,77% 23%,73% 52%,23% 48%)}75%{-webkit-clip-path:polygon(23% 25%,77% 25%,77% 48%,23% 48%);clip-path:polygon(23% 25%,77% 25%,77% 48%,23% 48%)}}@keyframes dance10{25%{-webkit-clip-path:polygon(23% 23%,73% 25%,77% 48%,27% 52%);clip-path:polygon(23% 23%,73% 25%,77% 48%,27% 52%)}50%{-webkit-clip-path:polygon(27% 25%,77% 23%,73% 52%,23% 48%);clip-path:polygon(27% 25%,77% 23%,73% 52%,23% 48%)}75%{-webkit-clip-path:polygon(23% 25%,77% 25%,77% 48%,23% 48%);clip-path:polygon(23% 25%,77% 25%,77% 48%,23% 48%)}}@-webkit-keyframes you{25%{-webkit-clip-path:polygon(23% 25%,77% 23%,73% 52%,27% 48%);clip-path:polygon(23% 25%,77% 23%,73% 52%,27% 48%)}50%{-webkit-clip-path:polygon(27% 23%,73% 25%,77% 48%,23% 52%);clip-path:polygon(27% 23%,73% 25%,77% 48%,23% 52%)}75%{-webkit-clip-path:polygon(27% 25%,75% 25%,77% 50%,27% 48%);clip-path:polygon(27% 25%,75% 25%,77% 50%,27% 48%)}}@keyframes you{25%{-webkit-clip-path:polygon(23% 25%,77% 23%,73% 52%,27% 48%);clip-path:polygon(23% 25%,77% 23%,73% 52%,27% 48%)}50%{-webkit-clip-path:polygon(27% 23%,73% 25%,77% 48%,23% 52%);clip-path:polygon(27% 23%,73% 25%,77% 48%,23% 52%)}75%{-webkit-clip-path:polygon(27% 25%,75% 25%,77% 50%,27% 48%);clip-path:polygon(27% 25%,75% 25%,77% 50%,27% 48%)}}@-webkit-keyframes dance12{25%{-webkit-clip-path:polygon(27% 23%,75% 25%,75% 48%,23% 52%);clip-path:polygon(27% 23%,75% 25%,75% 48%,23% 52%)}50%{-webkit-clip-path:polygon(23% 25%,75% 25%,75% 52%,27% 48%);clip-path:polygon(23% 25%,75% 25%,75% 52%,27% 48%)}75%{-webkit-clip-path:polygon(25% 25%,75% 25%,75% 50%,27% 50%);clip-path:polygon(25% 25%,75% 25%,75% 50%,27% 50%)}}@keyframes dance12{25%{-webkit-clip-path:polygon(27% 23%,75% 25%,75% 48%,23% 52%);clip-path:polygon(27% 23%,75% 25%,75% 48%,23% 52%)}50%{-webkit-clip-path:polygon(23% 25%,75% 25%,75% 52%,27% 48%);clip-path:polygon(23% 25%,75% 25%,75% 52%,27% 48%)}75%{-webkit-clip-path:polygon(25% 25%,75% 25%,75% 50%,27% 50%);clip-path:polygon(25% 25%,75% 25%,75% 50%,27% 50%)}}@-webkit-keyframes dance13{25%{-webkit-clip-path:polygon(25% 23%,77% 27%,73% 50%,25% 50%);clip-path:polygon(25% 23%,77% 27%,73% 50%,25% 50%)}50%{-webkit-clip-path:polygon(25% 27%,73% 23%,77% 52%,25% 50%);clip-path:polygon(25% 27%,73% 23%,77% 52%,25% 50%)}75%{-webkit-clip-path:polygon(25% 25%,73% 23%,73% 50%,25% 50%);clip-path:polygon(25% 25%,73% 23%,73% 50%,25% 50%)}}@keyframes dance13{25%{-webkit-clip-path:polygon(25% 23%,77% 27%,73% 50%,25% 50%);clip-path:polygon(25% 23%,77% 27%,73% 50%,25% 50%)}50%{-webkit-clip-path:polygon(25% 27%,73% 23%,77% 52%,25% 50%);clip-path:polygon(25% 27%,73% 23%,77% 52%,25% 50%)}75%{-webkit-clip-path:polygon(25% 25%,73% 23%,73% 50%,25% 50%);clip-path:polygon(25% 25%,73% 23%,73% 50%,25% 50%)}}@-webkit-keyframes dance14{25%{-webkit-clip-path:polygon(27% 27%,77% 23%,73% 50%,23% 50%);clip-path:polygon(27% 27%,77% 23%,73% 50%,23% 50%)}50%{-webkit-clip-path:polygon(23% 23%,73% 27%,77% 50%,27% 52%);clip-path:polygon(23% 23%,73% 27%,77% 50%,27% 52%)}75%{-webkit-clip-path:polygon(23% 23%,77% 23%,77% 50%,23% 50%);clip-path:polygon(23% 23%,77% 23%,77% 50%,23% 50%)}}@keyframes dance14{25%{-webkit-clip-path:polygon(27% 27%,77% 23%,73% 50%,23% 50%);clip-path:polygon(27% 27%,77% 23%,73% 50%,23% 50%)}50%{-webkit-clip-path:polygon(23% 23%,73% 27%,77% 50%,27% 52%);clip-path:polygon(23% 23%,73% 27%,77% 50%,27% 52%)}75%{-webkit-clip-path:polygon(23% 23%,77% 23%,77% 50%,23% 50%);clip-path:polygon(23% 23%,77% 23%,77% 50%,23% 50%)}}@-webkit-keyframes dance15{25%{-webkit-clip-path:polygon(27% 23%,73% 27%,77% 50%,23% 50%);clip-path:polygon(27% 23%,73% 27%,77% 50%,23% 50%)}50%{-webkit-clip-path:polygon(23% 27%,77% 23%,73% 50%,27% 50%);clip-path:polygon(23% 27%,77% 23%,73% 50%,27% 50%)}75%{-webkit-clip-path:polygon(27% 23%,77% 23%,75% 50%,27% 50%);clip-path:polygon(27% 23%,77% 23%,75% 50%,27% 50%)}}@keyframes dance15{25%{-webkit-clip-path:polygon(27% 23%,73% 27%,77% 50%,23% 50%);clip-path:polygon(27% 23%,73% 27%,77% 50%,23% 50%)}50%{-webkit-clip-path:polygon(23% 27%,77% 23%,73% 50%,27% 50%);clip-path:polygon(23% 27%,77% 23%,73% 50%,27% 50%)}75%{-webkit-clip-path:polygon(27% 23%,77% 23%,75% 50%,27% 50%);clip-path:polygon(27% 23%,77% 23%,75% 50%,27% 50%)}}@-webkit-keyframes dance16{25%{-webkit-clip-path:polygon(23% 27%,75% 23%,75% 50%,27% 50%);clip-path:polygon(23% 27%,75% 23%,75% 50%,27% 50%)}50%{-webkit-clip-path:polygon(27% 23%,75% 27%,75% 50%,23% 50%);clip-path:polygon(27% 23%,75% 27%,75% 50%,23% 50%)}75%{-webkit-clip-path:polygon(27% 23%,75% 25%,75% 50%,25% 50%);clip-path:polygon(27% 23%,75% 25%,75% 50%,25% 50%)}}@keyframes dance16{25%{-webkit-clip-path:polygon(23% 27%,75% 23%,75% 50%,27% 50%);clip-path:polygon(23% 27%,75% 23%,75% 50%,27% 50%)}50%{-webkit-clip-path:polygon(27% 23%,75% 27%,75% 50%,23% 50%);clip-path:polygon(27% 23%,75% 27%,75% 50%,23% 50%)}75%{-webkit-clip-path:polygon(27% 23%,75% 25%,75% 50%,25% 50%);clip-path:polygon(27% 23%,75% 25%,75% 50%,25% 50%)}}

diff --git a/app/dev/assets/sass/_styles/_styles.scss b/app/dev/assets/sass/_styles/_styles.scss
@@ -38,13 +38,13 @@ html, body{
       top: -25%;
       left: 37.5%;
       animation-name: dance03;
-      background: rgb(225, 231, 238);
+      background: rgb(213, 214, 217);
     }
     &.-dance04{
       top: -25%;
       left: 62.5%;
       animation-name: dance04;
-      background: rgb(241, 246, 249);
+      background: rgb(239, 238, 240);
     }
     &.-dance05{
       top: 0%;
@@ -92,7 +92,7 @@ html, body{
       top: 25%;
       left: 62.5%;
       animation-name: dance12;
-      background: rgb(192, 200, 207);
+      background: rgb(241, 241, 243);
     }
     &.-dance13{
       top: 50%;
@@ -110,7 +110,7 @@ html, body{
       top: 50%;
       left: 37.5%;
       animation-name: dance15;
-      background: rgb(154, 164, 175);
+      background: rgb(223, 223, 221);
     }
     &.-dance16{
       top: 50%;
